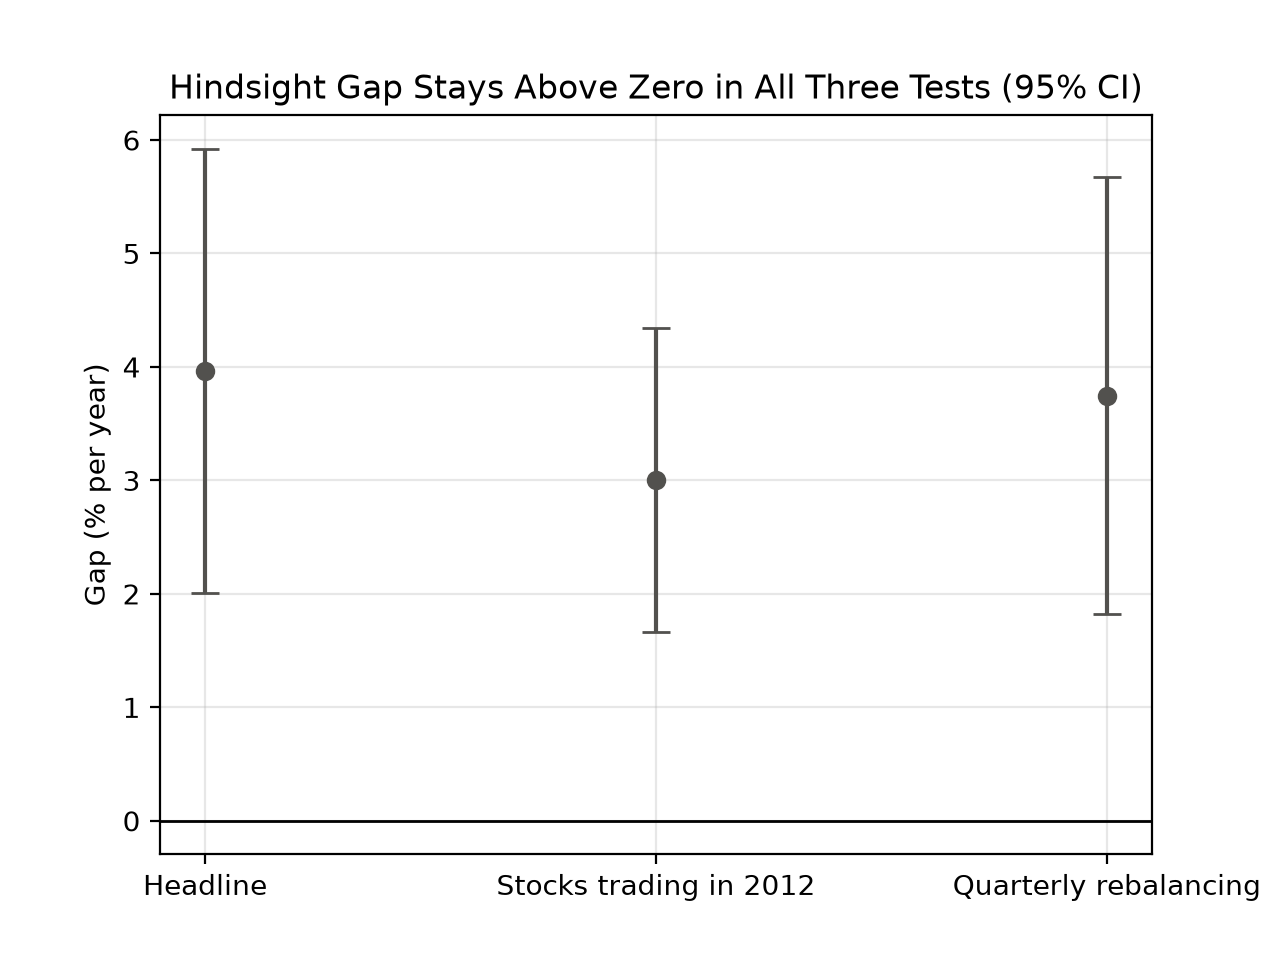
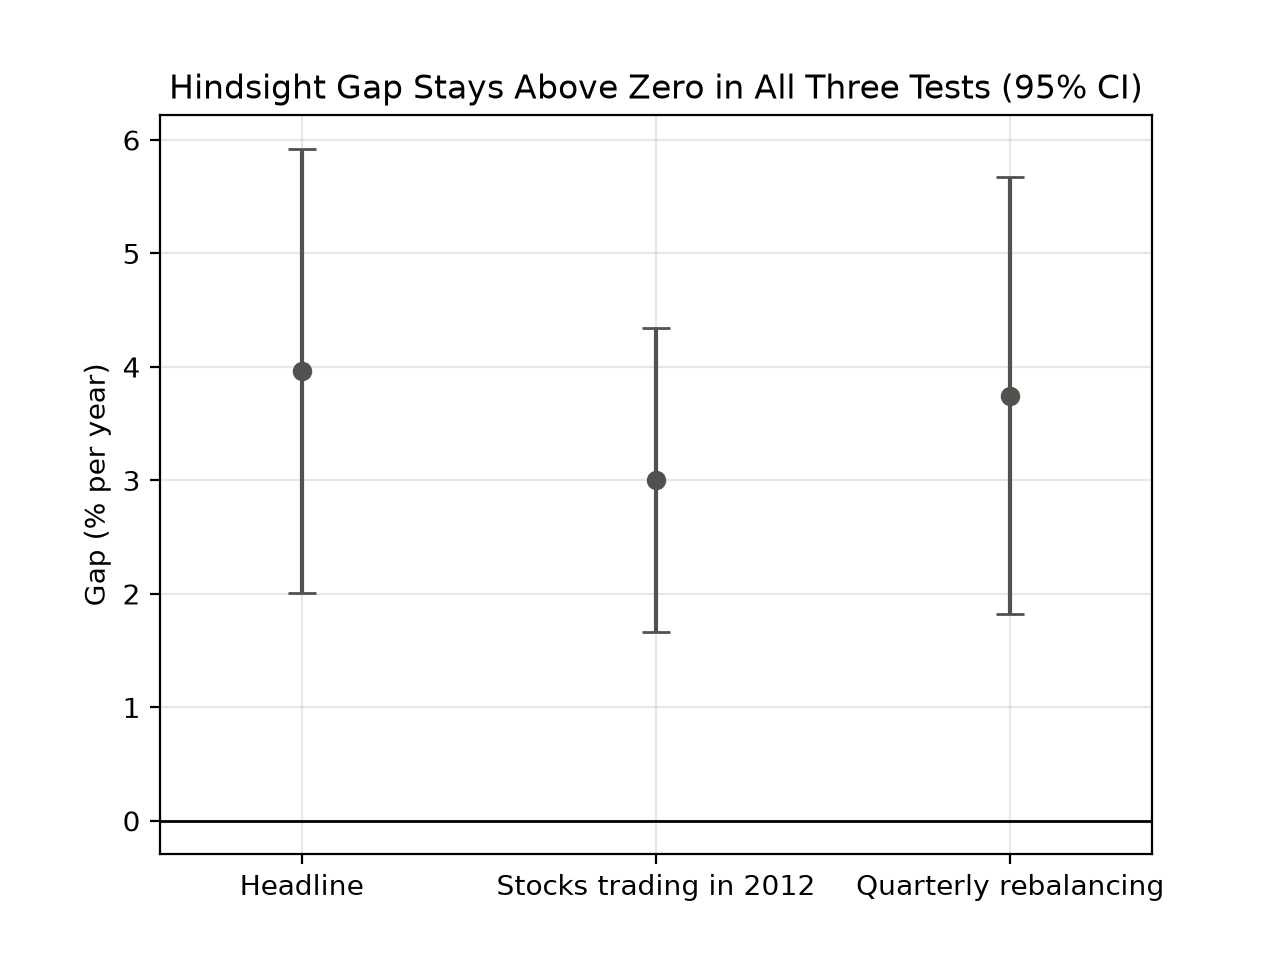
Add charts 3 and 4; print_gap returns its numbers

diff --git a/charts.py b/charts.py
@@ -96,7 +96,7 @@ plt.axhline(0,
             color="black", 
             linewidth=1)
 plt.grid(alpha=0.3)
-plt.title("plt.title(Most of the Gap Built Up Before 2020\n(post hoc, not in the frozen plan)")
+plt.title("Most of the Gap Built Up Before 2020\n(post hoc, not in the frozen plan)")
 plt.ylabel("Cumulative gap (percentage points)")
 plt.tight_layout()
 plt.savefig("charts/chart4.png", dpi=200)

diff --git a/notes/RESEARCH_LOG.md b/notes/RESEARCH_LOG.md
@@ -268,3 +268,10 @@ Yahoo's `Dividends` column vs SET announcements. All three match on amount and X
 - **Result:** gap 3.75%/yr, t = 3.81, 95% CI [1.82%, 5.68%]. Headline stays 3.97%, t = 3.98.
 - Rebalancing frequency barely changes the gap. Noise in the yearly difference stays about the same (about 3.7%/yr vs 3.77%/yr).
 - `print_gap` now takes periods per year. `cagr` and `sharpe` still assume 12, so they aren't used on the quarterly series.
+
+### Step 26: Charts (Ikkyu's code, `charts.py`, 31 Oct–1 Nov)
+- **Chart 1:** growth of 100 baht, ending at 519 (2026 list), 302 (2012 list), 220 (TDEX). The first point is end of Aug 2012, so lines start near 103.
+- **Chart 2:** stocks held. The 2012 list holds 41–42; the 2026 list goes from 35 to 49, crossing around 2018.
+- **Chart 3:** headline and both sensitivities with 95% CIs. No bar touches zero. All three share the same data, so they aren't separate proofs.
+- **Chart 4 (post hoc):** cumulative gap, +49.8 points by end 2019 and +56.5 at the end. Shows when the gap appeared, not why, and not that it has ended.
+- **Colours:** blue and orange follow each list across charts; TDEX is dashed green; differences are grey. The three colours passed a colour-blind check.
